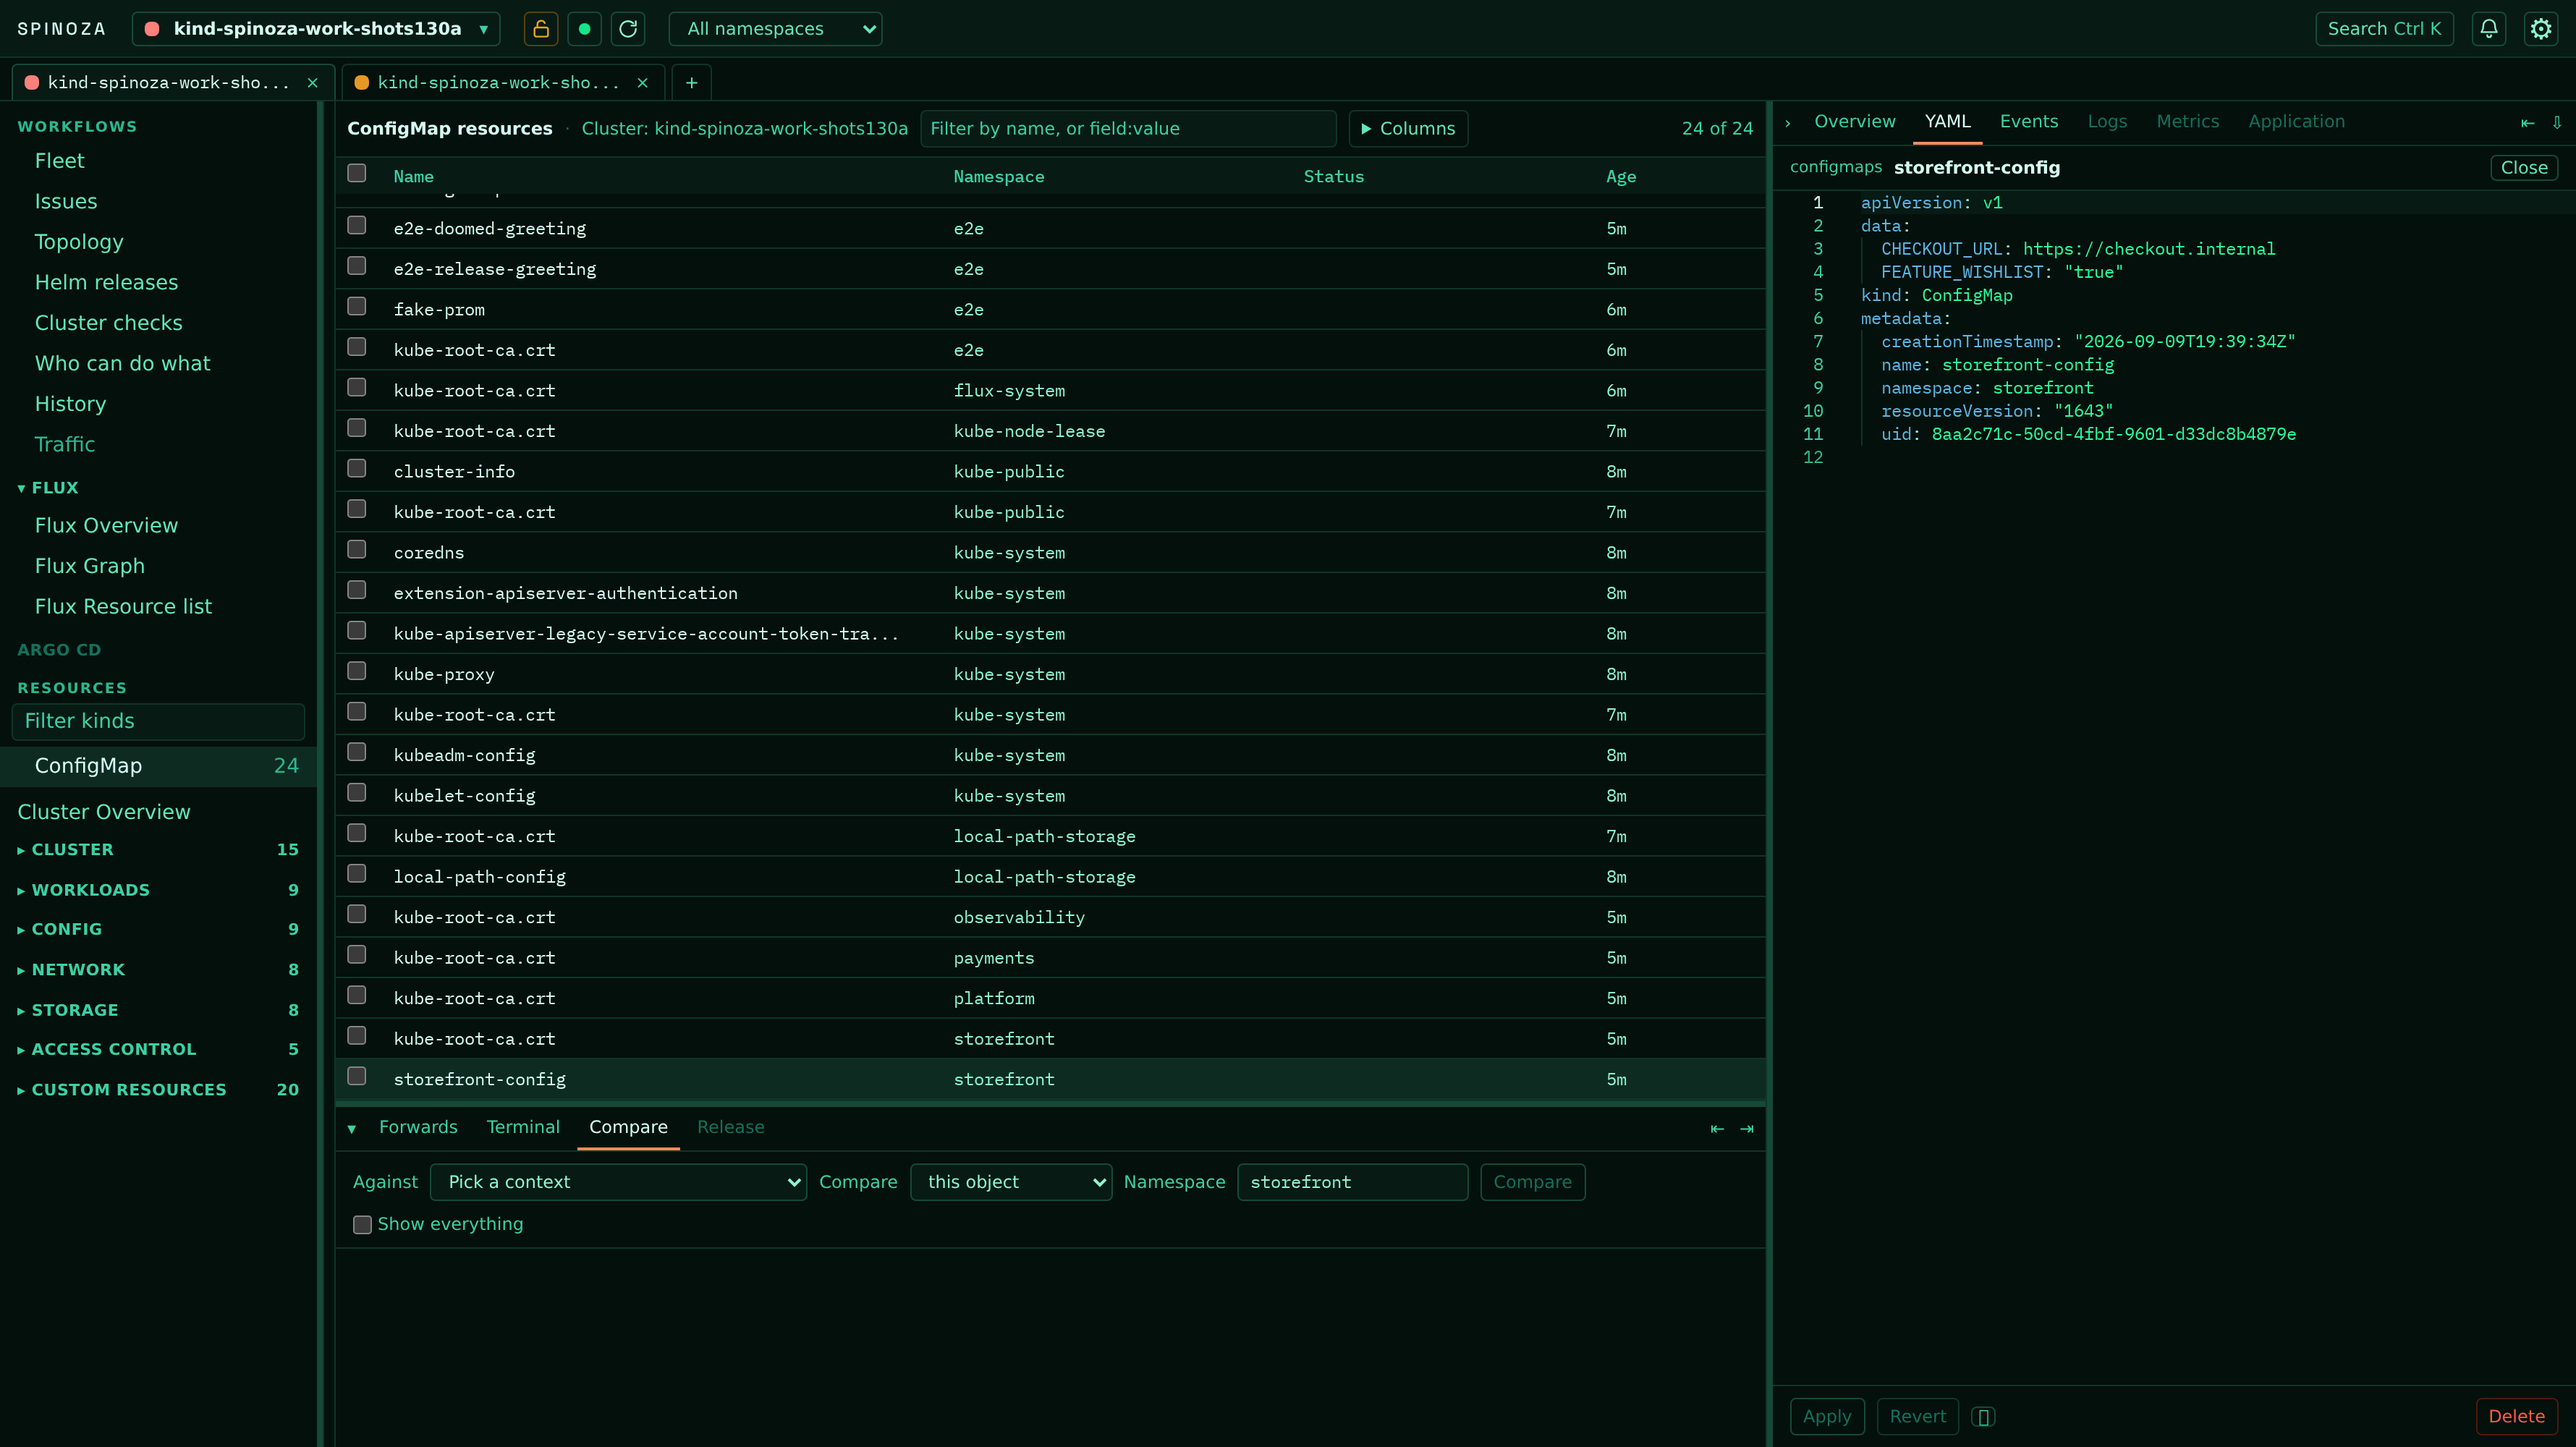
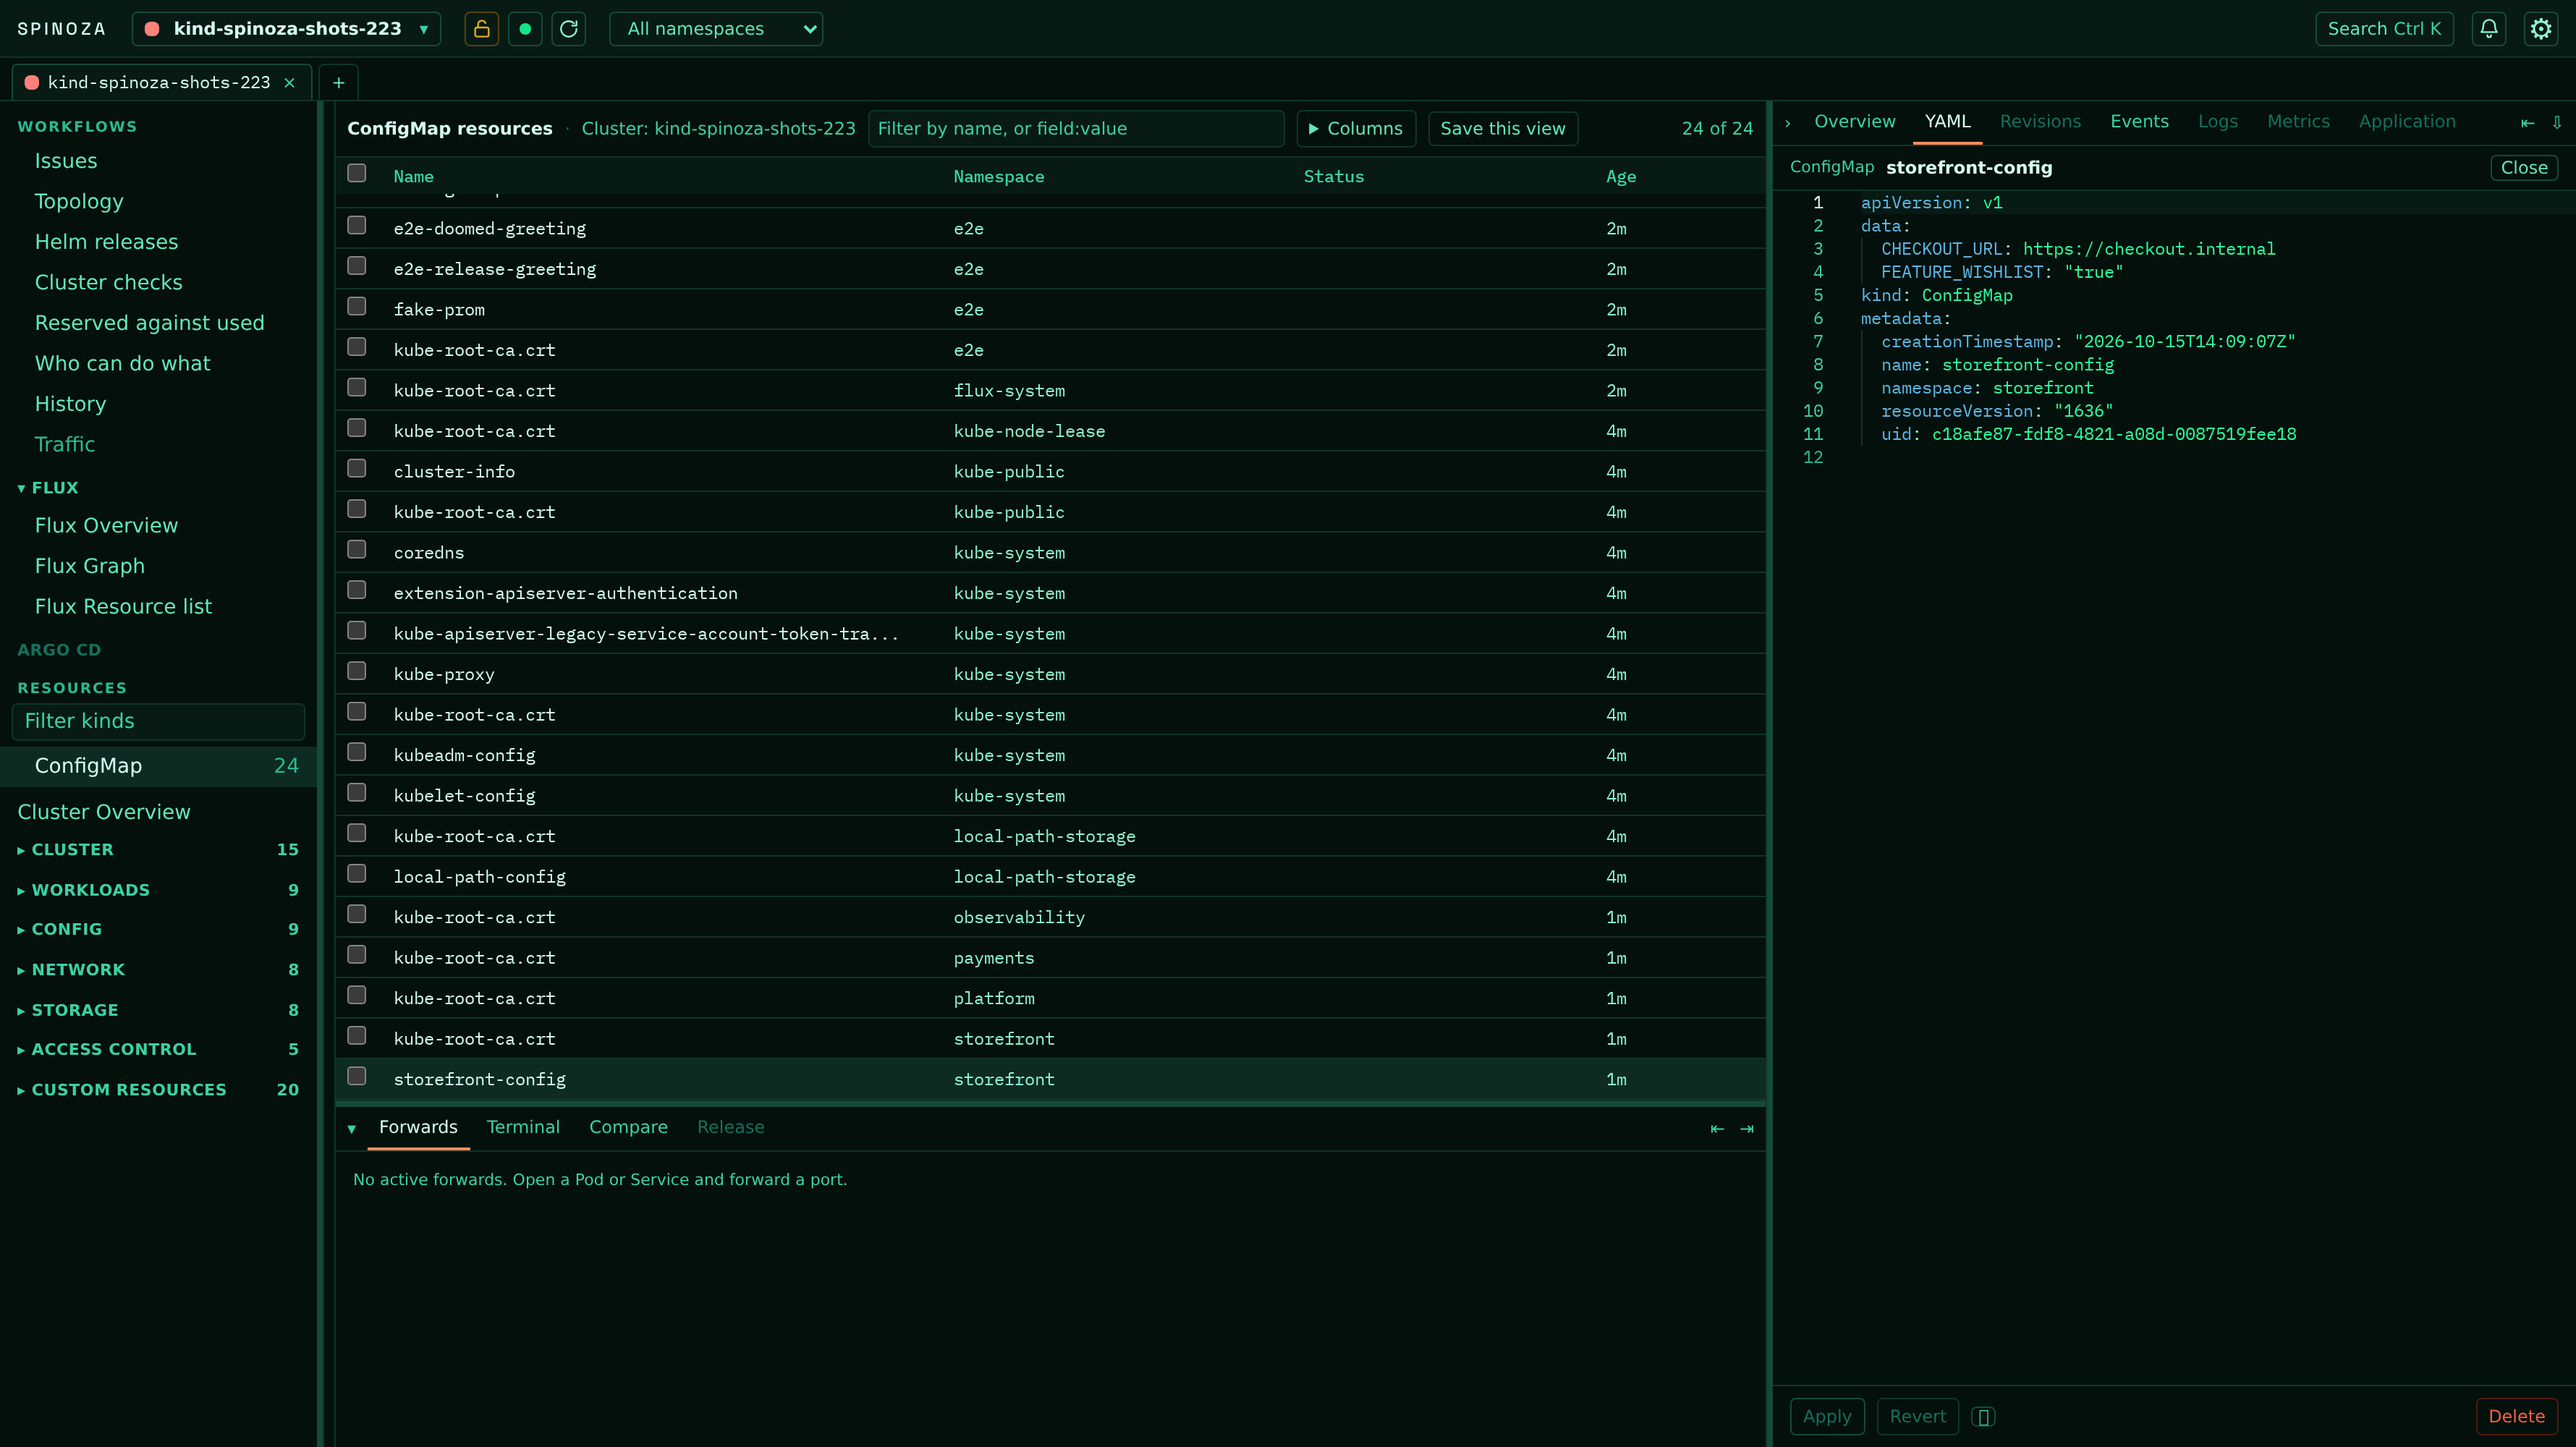
docs: recapture the README screenshots on 2.2.3

diff --git a/README.md b/README.md
@@ -56,7 +56,7 @@ Needs a kubeconfig. Upgrades, rollbacks and debug containers call `helm` and `ku
 
 One informer-backed view per type, so CRDs need no per-type code. Snapshot, then deltas over a WebSocket keyed by uid. Field-aware filter completed from what the cluster reported, namespace scope, failing-object badges, bulk restart and delete.
 
-![Spinoza pods table with the inspect drawer open on coredns: ports, metadata, conditions, containers and owner references](docs/images/pods.png)
+![Spinoza pods table: every pod across all namespaces with its containers, status, restarts, node and live CPU](docs/images/pods.png)
 
 ## Clusters
 
@@ -64,7 +64,7 @@ Open as many as you like. Each is a tab with its own state, health and history, 
 however you want, grouped, and remembered or forgotten between runs. Anything destructive on a
 protected cluster asks for the name typed out.
 
-![Spinoza with two clusters open as tabs and the compare panel docked below, ready to pair an object against the other cluster](docs/images/compare.png)
+![Spinoza with two clusters open as tabs, a ConfigMap selected, and the compare panel docked below showing the lines that differ against the second cluster side by side](docs/images/compare.png)
 
 The fleet view answers one question across every open cluster at once: checks, issues, search, Helm
 releases and GitOps, without switching tab.
@@ -103,7 +103,7 @@ every open cluster at once. The timeline beside it records what the cluster did.
 Open the graph around one object and it draws what owns it, what it owns, what routes to it and what
 configures it. Folded by default; the whole cluster is one click away.
 
-![Spinoza topology graph rooted on one Deployment: the namespace that owns it, the ReplicaSet it owns and the ConfigMap that configures its pods](docs/images/topology.png)
+![Spinoza topology graph around one Deployment: the Ingress and Service that route to it, the ConfigMap that configures it, its ReplicaSet and pods folded into the node, and the Deployment's own panel open beside it](docs/images/topology.png)
 
 ## Compare across clusters
 
@@ -123,33 +123,33 @@ Every change Spinoza made, kept per cluster, with what changed and when.
 
 Flux and Argo CD side by side: cluster sync, controller health, per-kind lists, status tiles. Reconcile, suspend and resume Flux objects. Sync and refresh Argo Applications.
 
-![Spinoza Flux overview: all systems operational, cluster sync from a GitRepository, controller health, and counts for appliers, sources and image automation](docs/images/flux-overview.png)
+![Spinoza Flux overview: all systems operational, controller health and resource usage, and counts for appliers and sources](docs/images/flux-overview.png)
 
 The dependency graph is laid out by what manages what. Argo's is the app-of-apps, ApplicationSets above what they generate. A node opens in the drawer with its actions.
 
-![Spinoza GitOps dependency graph: sources, Kustomizations and HelmReleases with the edges that manage and depend on each other](docs/images/gitops-graph.png)
+![Spinoza GitOps dependency graph: a GitRepository linked to the Kustomization it is the source for](docs/images/gitops-graph.png)
 
 ## Helm without the binary
 
 Releases read from Helm's own storage, either driver. Chart and app version, what your repos offer, revision, status, values, notes, rendered manifest, history. OCI end to end. Upgrade behind a server-rendered manifest diff; rollback and uninstall from the same panel. A Flux-owned release links to its HelmRelease instead of offering an upgrade button.
 
-![Spinoza Helm releases with chart and app versions, revision and status, and the selected release docked below showing the resources it rendered](docs/images/helm-releases.png)
+![Spinoza Helm releases read from the cluster: chart and app versions, the newest chart available, revision, status and when each was last updated](docs/images/helm-releases.png)
 
 Selecting a release docks its detail as a panel. Drag it to any side, resize it, collapse it; the placement persists, and `release` and `releaseNs` in the URL carry it through a reload or a back button. Clicking a rendered resource opens that object in its own table with the row selected and the drawer open, while the release stays docked underneath.
 
-![Spinoza deployments table scoped to the cert-manager namespace with the deployment selected, its inspect drawer open on metadata and conditions, and the Helm release still docked below on its resource list](docs/images/helm-resources.png)
+![Spinoza Helm releases with one release selected and its detail docked below, listing the ConfigMap and Deployment the chart rendered, alongside upgrade and uninstall](docs/images/helm-resources.png)
 
 ## Inspect and edit
 
 Metadata, conditions, events and live YAML in Monaco. Schema-aware completion from the cluster's own OpenAPI. Apply sends the object back with the resourceVersion you read, so a draft built on a read the cluster has moved past is refused rather than written over it. Delete names the object you inspected by its UID, so a replacement that reuses the name is left alone. An edited draft survives a background reload, and the browser's Back button asks before it discards one.
 
-![Spinoza deployments table with the inspect drawer open on live YAML in Monaco, with apply, revert and delete](docs/images/inspect-yaml.png)
+![Spinoza ConfigMap table with the inspect drawer open on the object's live YAML in Monaco, with apply, revert and delete](docs/images/inspect-yaml.png)
 
 ## Port-forwarding
 
 Any pod or service on localhost, no kubectl. Forwards survive navigation, listed and stopped from one panel.
 
-![Spinoza pods table with the inspect drawer open on Grafana's ports: 3000 forwarded to a local port with open and stop controls, and a toast confirming the forward](docs/images/port-forward.png)
+![Spinoza pods table with the inspect drawer open on a running pod: its container port forwarded to a local port with open and stop controls, and the forward listed in the dock below](docs/images/port-forward.png)
 
 ## Rollout revisions
 
